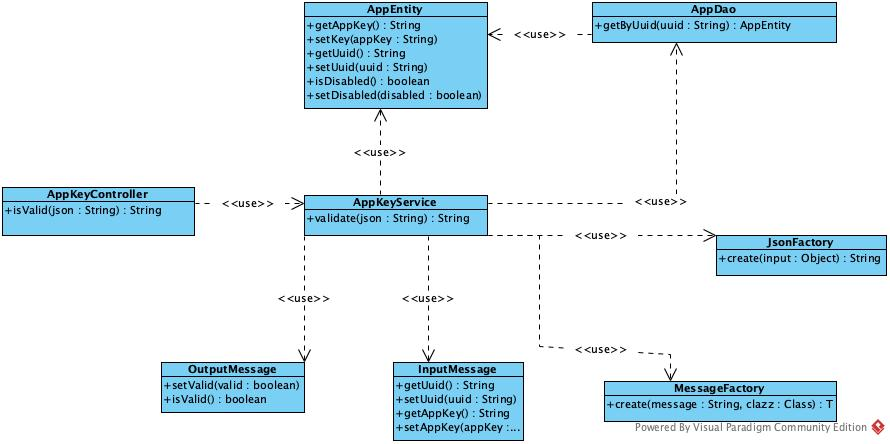
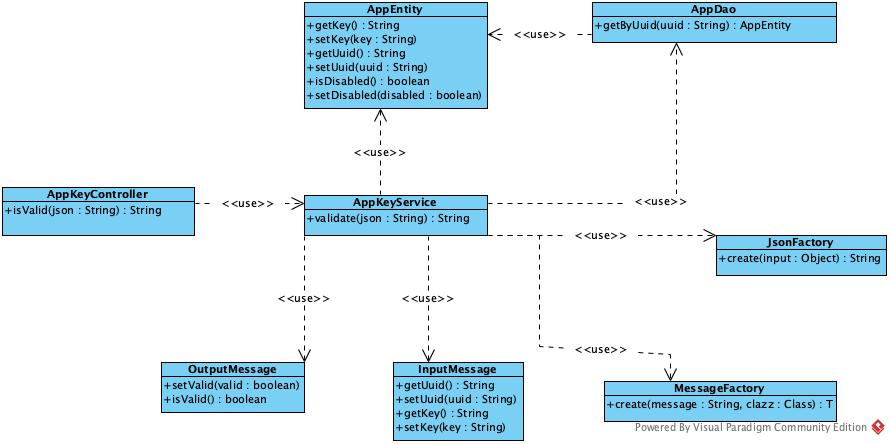
changes in app key

Changed region(s): [[0.4551, 0.9077, 0.5764, 0.9955], [0.364, 0.0293, 0.4854, 0.1171]]

diff --git a/src/main/java/eu/pstdio/app_key_validator_api/integration/entity/AppEntity.java b/src/main/java/eu/pstdio/app_key_validator_api/integration/entity/AppEntity.java
@@ -5,8 +5,8 @@ package eu.pstdio.app_key_validator_api.integration.entity;
  * @author mib
  */
 public interface AppEntity {
-    String getAppKey();
-    void setAppKey(String appKey);
+    String getKey();
+    void setKey(String key);
     String getUuid();
     void setUuid(String uuid);
     boolean isDisabled();

diff --git a/src/main/java/eu/pstdio/app_key_validator_api/business/message/InputMessage.java b/src/main/java/eu/pstdio/app_key_validator_api/business/message/InputMessage.java
@@ -5,8 +5,8 @@ package eu.pstdio.app_key_validator_api.business.message;
  * @author mib
  */
 public interface InputMessage {
-    String getUuid();
-    void setUuid(String uuid);
+    String getAppUuid();
+    void setAppUuid(String appUuid);
     String getAppKey();
     void setAppKey(String appKey);
 }
